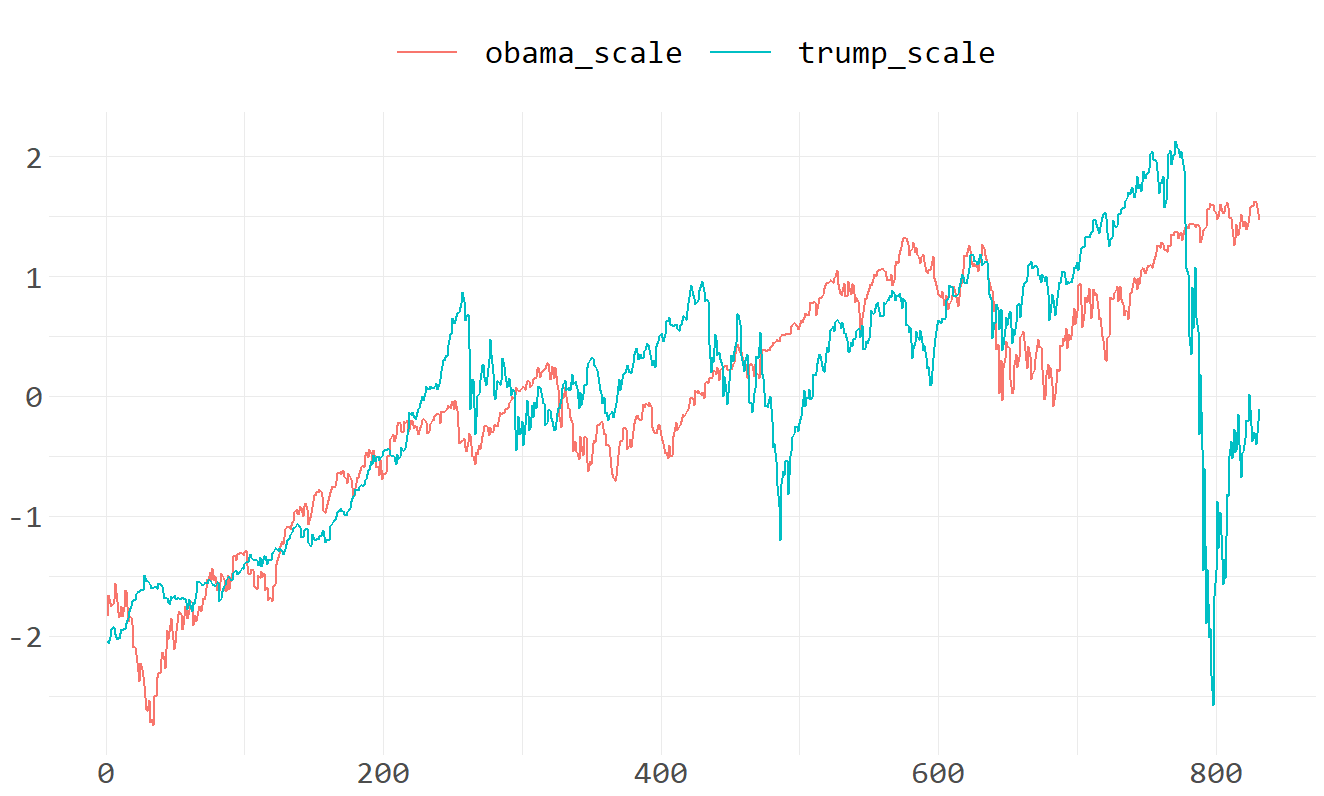
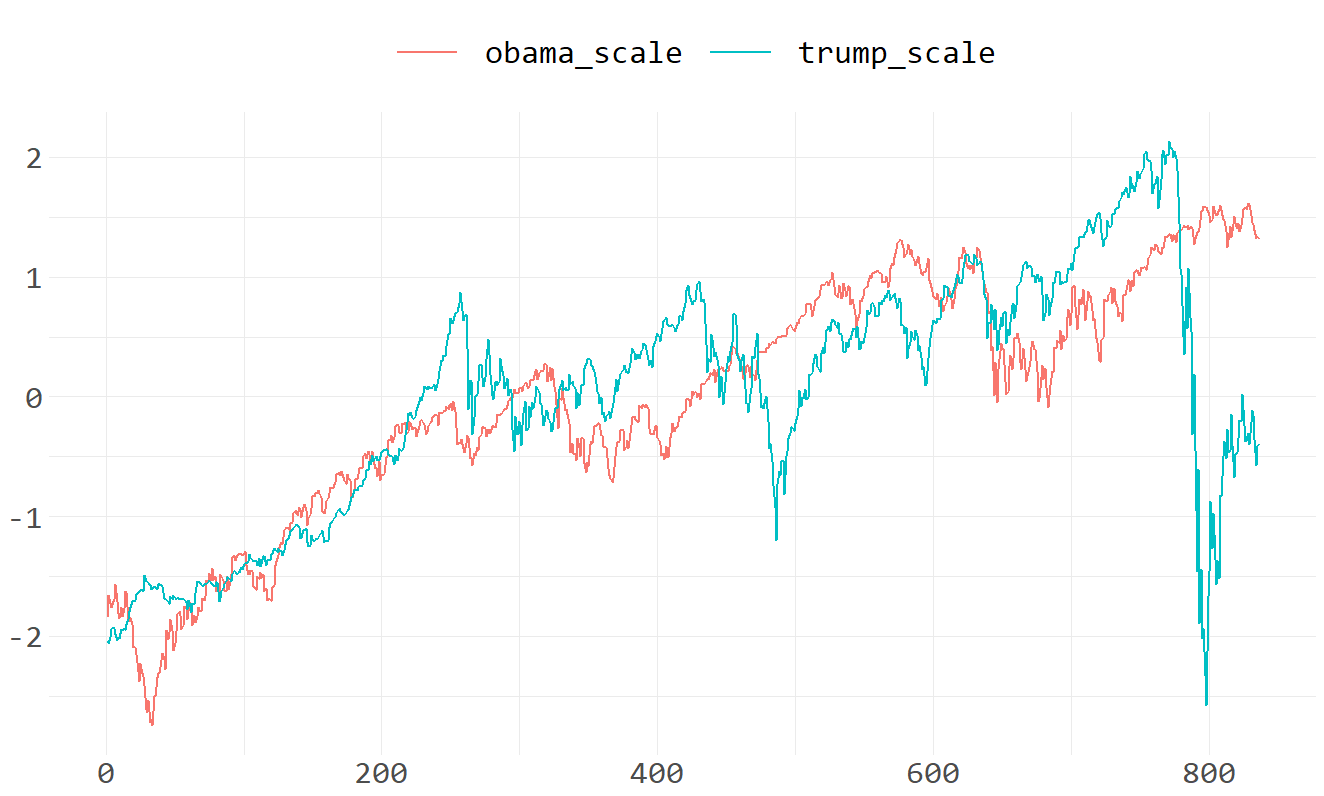
Add files via upload

diff --git a/thedowjonesindustrialaverage.md b/thedowjonesindustrialaverage.md
@@ -1,7 +1,7 @@
 The Dow Jones Industrial Average
 ================
 <https://am-consulting.co.jp> , <https://twitter.com/amc_corporation>
-2020-05-10 11:22:45 JST
+2020-05-16 10:14:39 JST
 
     $quantmod
     [1]  0  4 17
@@ -56,12 +56,12 @@ tail(dji0)
 ```
 
                Date DJI.Open DJI.High  DJI.Low DJI.Close DJI.Volume DJI.Adjusted
-    3356 2020-05-01 24120.78 24120.78 23645.30  23723.69  418160000     23723.69
-    3357 2020-05-04 23581.55 23769.56 23361.16  23749.76  355360000     23749.76
-    3358 2020-05-05 23958.88 24169.72 23868.91  23883.09  369710000     23883.09
-    3359 2020-05-06 23978.88 24054.59 23661.14  23664.64  377450000     23664.64
-    3360 2020-05-07 23837.21 24094.62 23834.39  23875.89  369890000     23875.89
     3361 2020-05-08 24107.82 24349.90 24107.05  24331.32  335760000     24331.32
+    3362 2020-05-11 24256.45 24366.21 24070.22  24221.99  352400000     24221.99
+    3363 2020-05-12 24292.84 24382.09 23761.58  23764.78  359480000     23764.78
+    3364 2020-05-13 23702.16 23708.90 23067.64  23247.97  469950000     23247.97
+    3365 2020-05-14 23049.06 23630.86 22789.62  23625.34  472700000     23625.34
+    3366 2020-05-15 23454.83 23730.08 23354.15  23685.42  491510000     23685.42
 
 Adjusted price
 --------------
@@ -72,12 +72,12 @@ tail(dji)
 ```
 
                Date DJI.Adjusted
-    3356 2020-05-01     23723.69
-    3357 2020-05-04     23749.76
-    3358 2020-05-05     23883.09
-    3359 2020-05-06     23664.64
-    3360 2020-05-07     23875.89
     3361 2020-05-08     24331.32
+    3362 2020-05-11     24221.99
+    3363 2020-05-12     23764.78
+    3364 2020-05-13     23247.97
+    3365 2020-05-14     23625.34
+    3366 2020-05-15     23685.42
 
 Highest price
 -------------
@@ -160,13 +160,13 @@ trump %>% {rbind(head(.,1),tail(.,1))}
 
               Date DJI.Adjusted
     1   2017-01-20     19827.25
-    831 2020-05-08     24331.32
+    836 2020-05-15     23685.42
 
 ``` r
 trump[,2] %>% {(tail(.,1)/head(.,1)-1)*100} %>% signif(7) %>% paste0('%')
 ```
 
-    [1] "22.71657%"
+    [1] "19.45893%"
 
 #### Percentage change from November 9, 2016
 
@@ -177,13 +177,13 @@ trump20161109
 
             Date DJI.Adjusted
     1 2016-11-09     18589.69
-    2 2020-05-08     24331.32
+    2 2020-05-15     23685.42
 
 ``` r
 trump20161109[,2] %>% {(tail(.,1)/head(.,1)-1)*100} %>% signif(7) %>% paste0('%')
 ```
 
-    [1] "30.8861%"
+    [1] "27.4116%"
 
 Compare difference between Obama and Trump
 ------------------------------------------
@@ -262,12 +262,12 @@ tail(trump)
 ```
 
                Date DJI.Adjusted change up down even
-    3356 2020-05-01     23723.69  -2.55  0    1    0
-    3357 2020-05-04     23749.76   0.11  1    0    0
-    3358 2020-05-05     23883.09   0.56  1    0    0
-    3359 2020-05-06     23664.64  -0.91  0    1    0
-    3360 2020-05-07     23875.89   0.89  1    0    0
     3361 2020-05-08     24331.32   1.91  1    0    0
+    3362 2020-05-11     24221.99  -0.45  0    1    0
+    3363 2020-05-12     23764.78  -1.89  0    1    0
+    3364 2020-05-13     23247.97  -2.17  0    1    0
+    3365 2020-05-14     23625.34   1.62  1    0    0
+    3366 2020-05-15     23685.42   0.25  1    0    0
 
 ###### Highest appreciation rate
 
@@ -341,8 +341,8 @@ tableObservation
 
             Up Down Total
     Obama 1080  925  2005
-    Trump  462  363   825
-    Total 1542 1288  2830
+    Trump  464  366   830
+    Total 1544 1291  2835
 
 ``` r
 tableExpectation
@@ -350,8 +350,8 @@ tableExpectation
 
             Up Down Total
     Obama 1092  913  2005
-    Trump  450  375   825
-    Total 1542 1288  2830
+    Trump  452  378   830
+    Total 1544 1291  2835
 
 ``` r
 cross_data0 <- data.frame(POTUS = c("Obama","Obama","Trump","Trump"),Change = rep(c("Up","Down"),2),frequency = c(tableObservation[1,1],tableObservation[1,2],tableObservation[2,1] ,tableObservation[2,2]))
@@ -361,8 +361,8 @@ cross_data0
       POTUS Change frequency
     1 Obama     Up      1080
     2 Obama   Down       925
-    3 Trump     Up       462
-    4 Trump   Down       363
+    3 Trump     Up       464
+    4 Trump   Down       366
 
 ``` r
 cross_data <- xtabs(formula = frequency ~ .,data = cross_data0)
@@ -372,7 +372,7 @@ cross_data
            Change
     POTUS   Down   Up
       Obama  925 1080
-      Trump  363  462
+      Trump  366  464
 
 ``` r
 chisq.test(cross_data,correct = F)
@@ -382,7 +382,7 @@ chisq.test(cross_data,correct = F)
         Pearson's Chi-squared test
 
     data:  cross_data
-    X-squared = 1.074, df = 1, p-value = 0.3
+    X-squared = 0.98333, df = 1, p-value = 0.3214
 
 ------------------------------------------------------------------------
 
